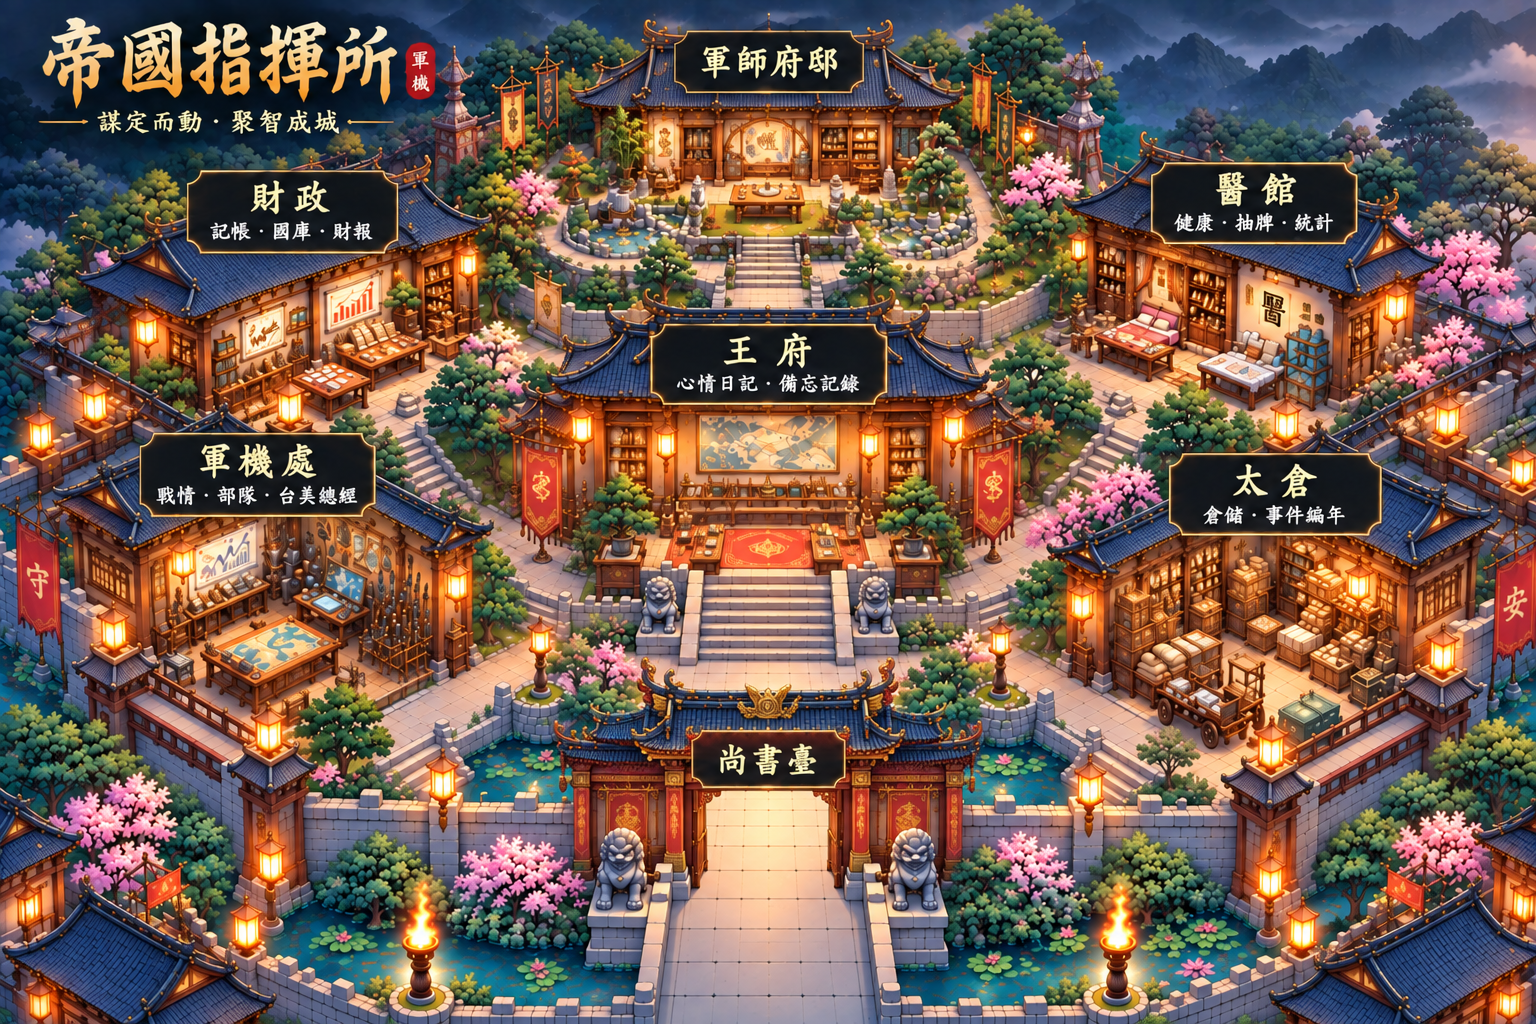
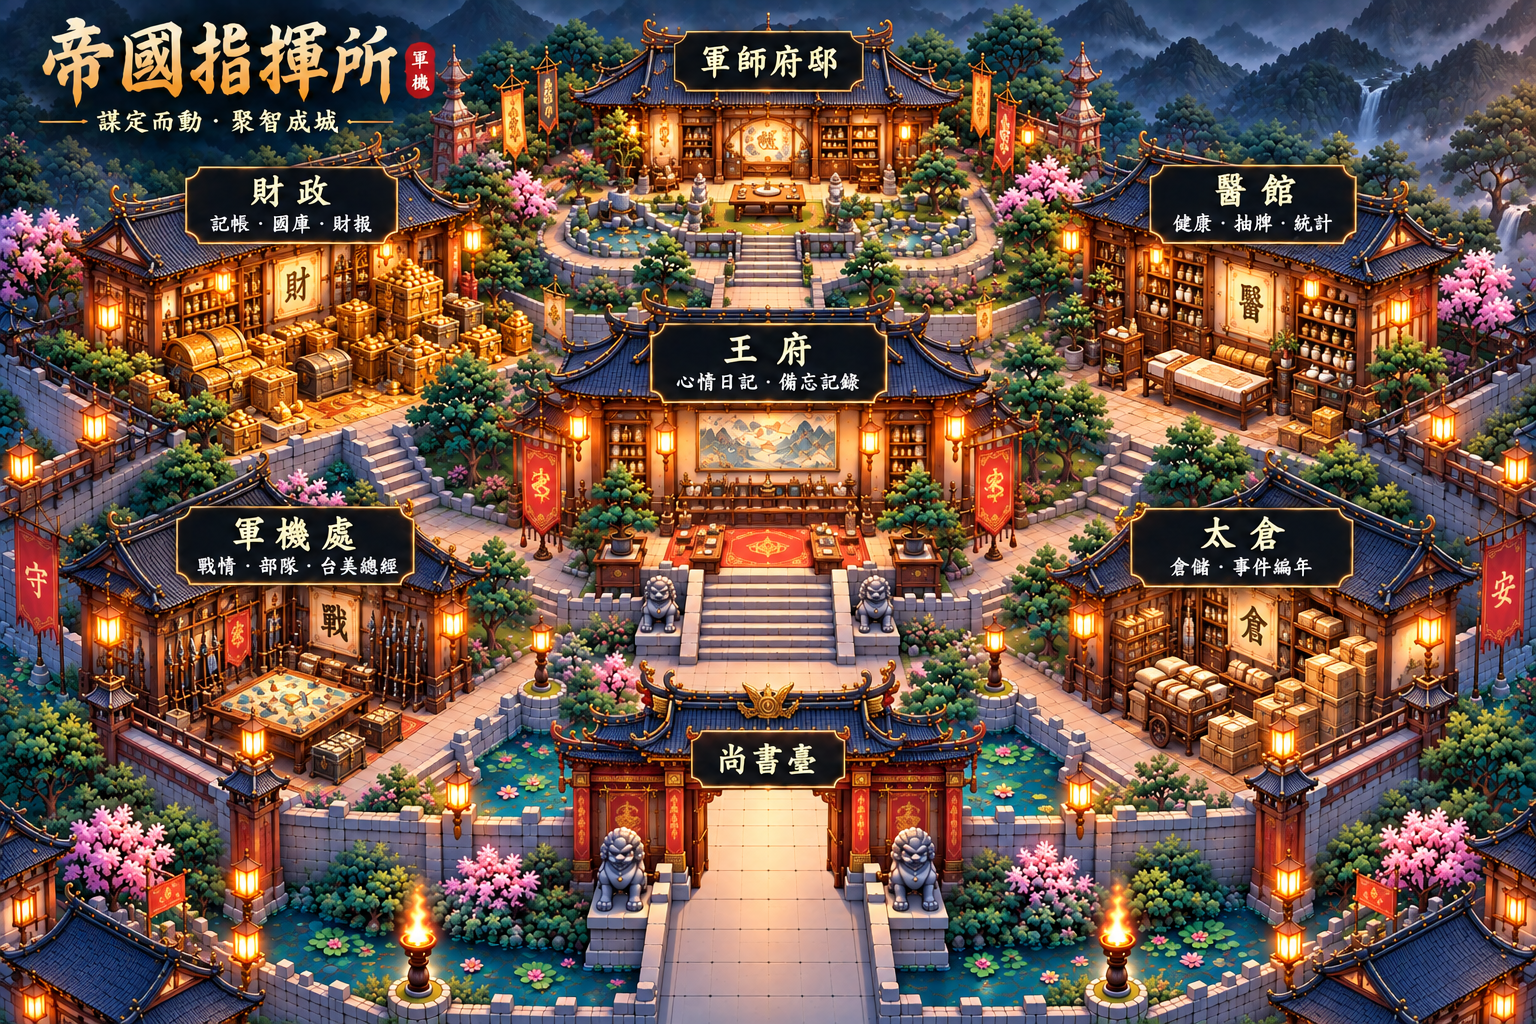
feat: refresh command center background

diff --git a/tests/example.spec.js b/tests/example.spec.js
@@ -230,7 +230,7 @@ test('legacy advisor video cards are removed while scene NPC controls remain', a
   await expect(liubei).toBeVisible();
   await expect(manchong).toBeVisible();
   await expect(xunyu).toBeVisible();
-  await expect(page.locator('.npc-web-scene-map')).toHaveAttribute('src', './junshifu-map.png?v=20260908-bg3');
+  await expect(page.locator('.npc-web-scene-map')).toHaveAttribute('src', './junshifu-map.png?v=20260910-bg4');
   expect(await page.evaluate(() => window.characterPositions.pangtong.left)).toBe('39%');
   expect(await page.evaluate(() => window.characterPositions.zhuge.left)).toBe('52%');
   await expect(pangtong).toHaveCSS('--mobile-top', 'calc(27.5% - 24px)');

diff --git a/index.html b/index.html
@@ -4627,7 +4627,7 @@ html[data-theme="deep-blue"] .scene-task-details .home-agenda-global-refresh{bor
   <div class="npc-web-scene-stage" id="npc-web-scene-stage">
     <picture>
       <source media="(max-width:768px)" srcset="./mobileBG.png?v=20260906-mobile1">
-      <img class="npc-web-scene-map" src="./junshifu-map.png?v=20260908-bg3" alt="帝國指揮所場景：財政、醫館、王府、軍機處、太倉與指揮所">
+      <img class="npc-web-scene-map" src="./junshifu-map.png?v=20260910-bg4" alt="帝國指揮所場景：財政、醫館、王府、軍機處、太倉與指揮所">
     </picture>
     <div class="scene-widget-dock" id="scene-widget-dock">
     </div>
